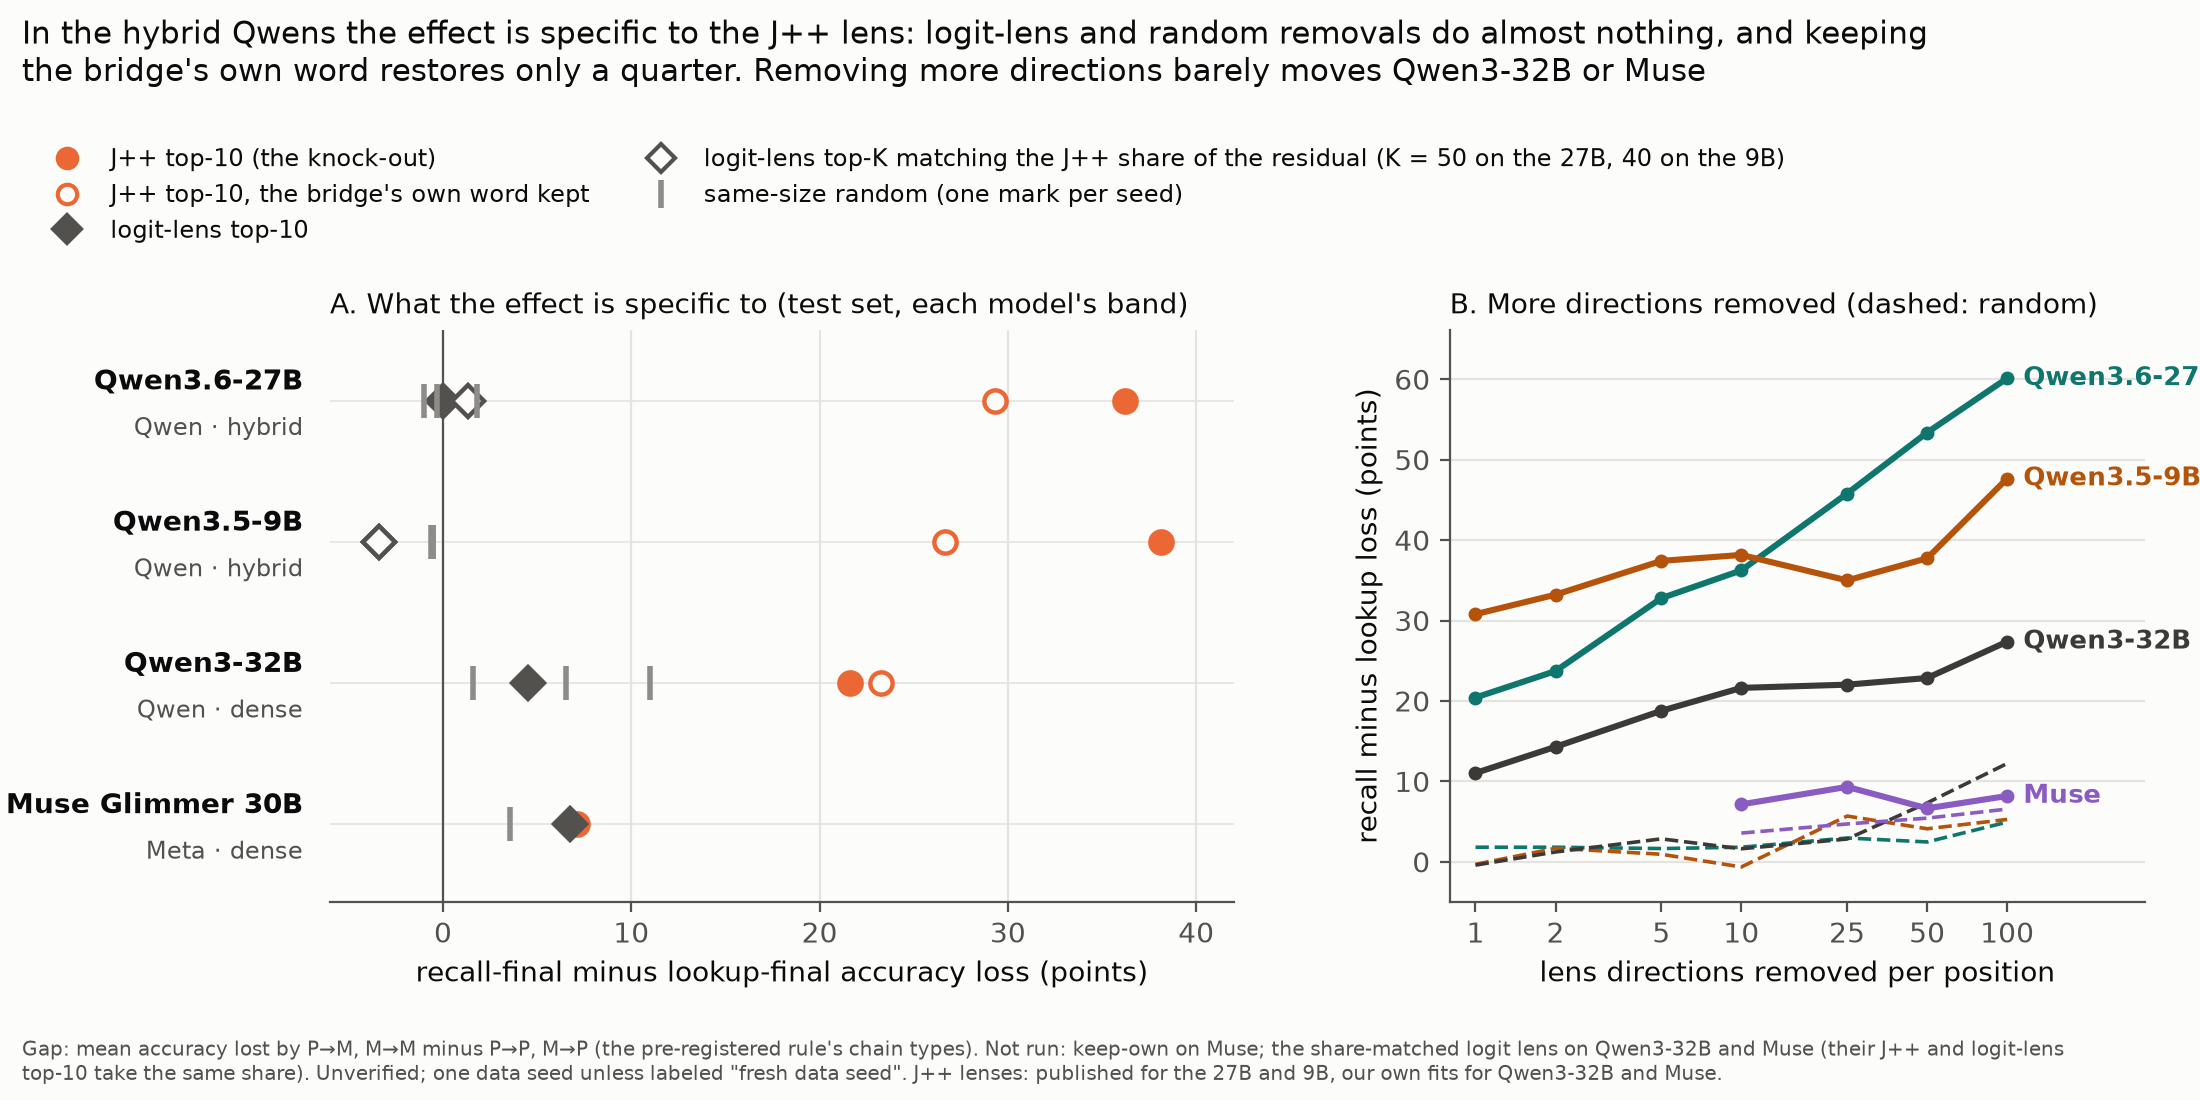
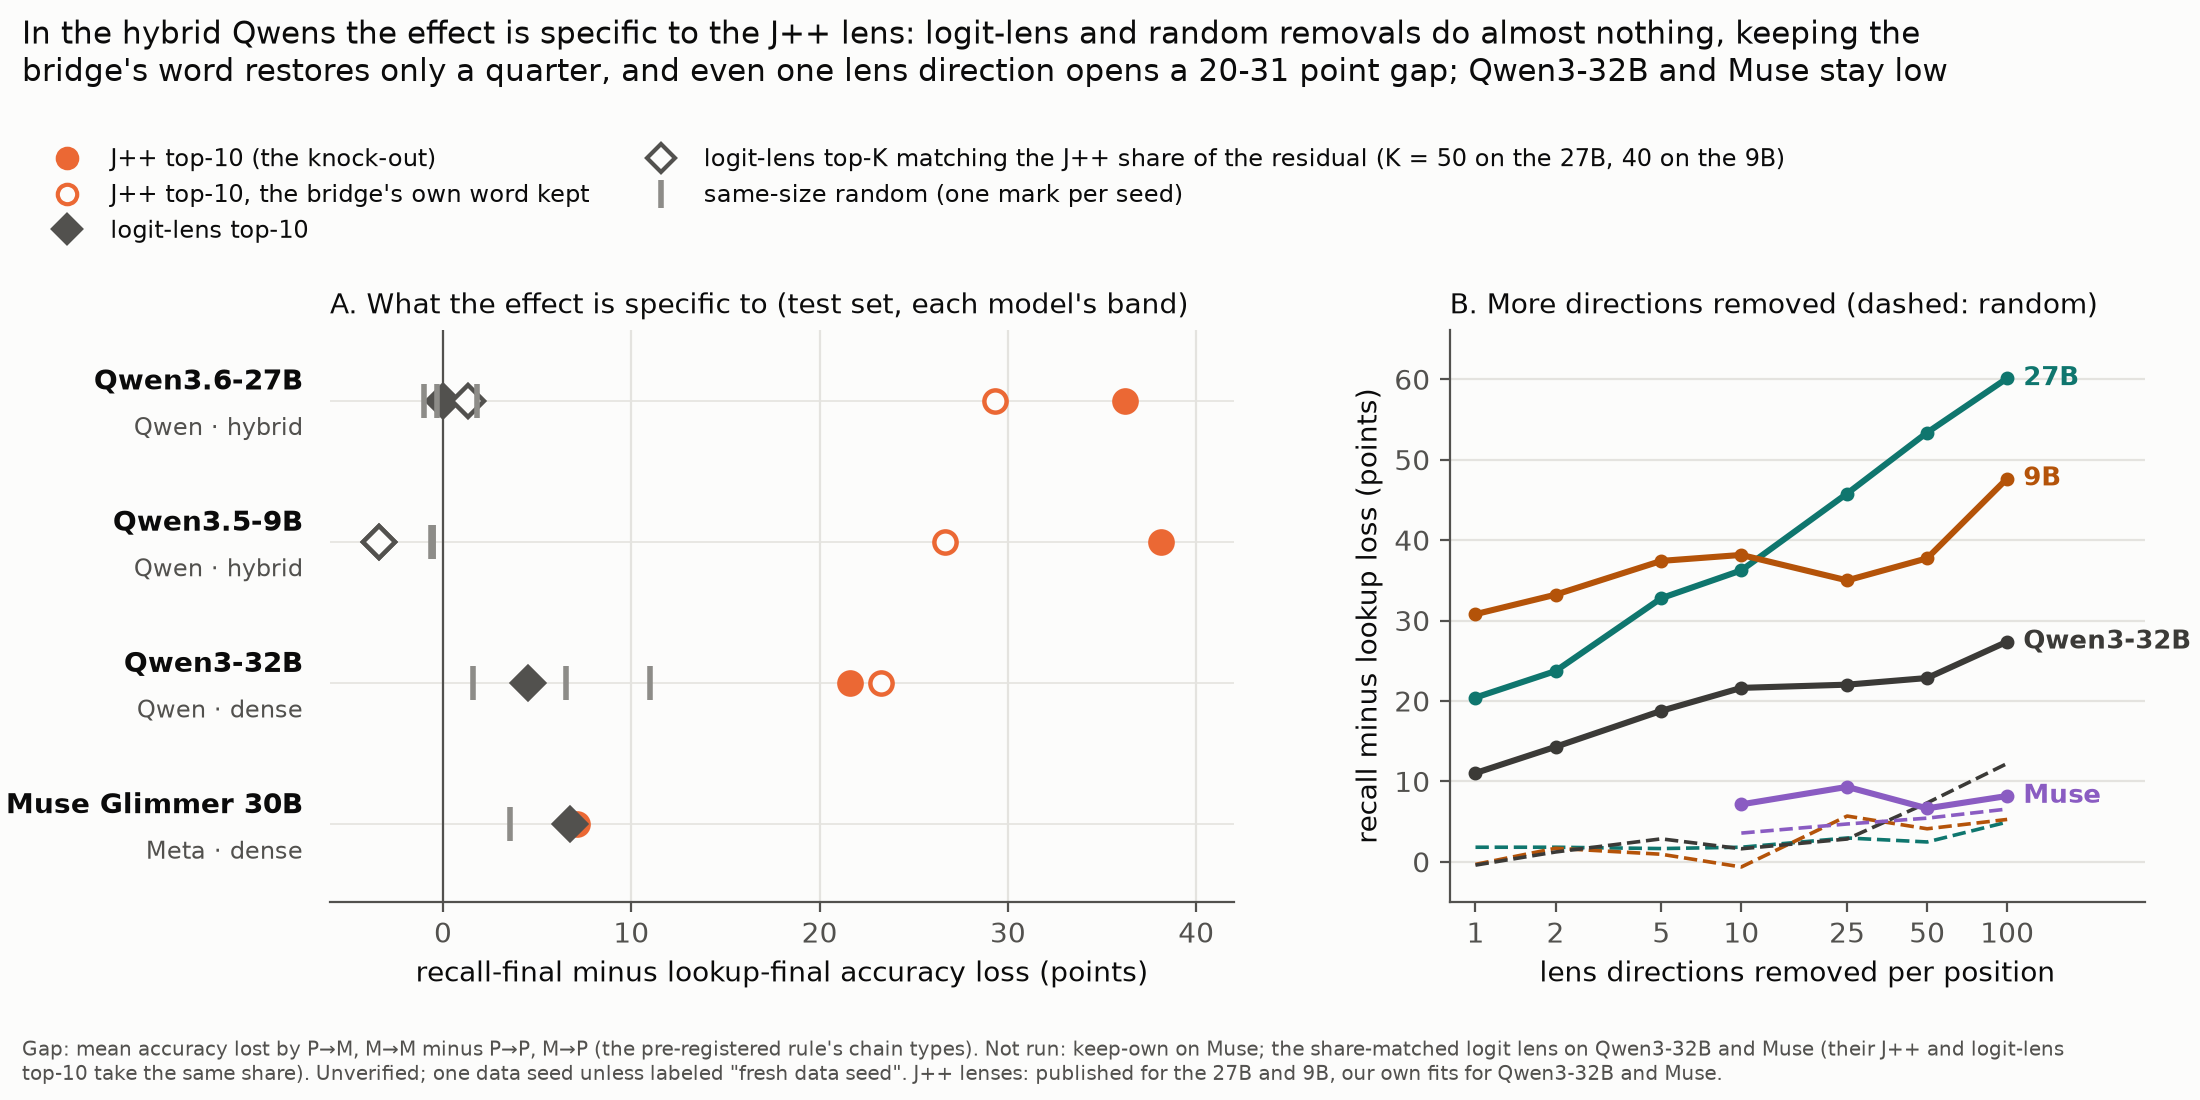
story figures: Fig 3 dose labels and headline with the hybrid doses

Changed region(s): [[0.0, 0.0, 0.8964, 0.0927], [0.9273, 0.4018, 1.0, 0.4636], [0.9273, 0.3091, 1.0, 0.3709]]

diff --git a/scripts/cross_model_story_1022.py b/scripts/cross_model_story_1022.py
@@ -273,8 +273,8 @@ fig.legend([Line2D([], [], color=c, marker=mk, linestyle="", markersize=10 if mk
 ax2 = fig.add_subplot(gs[0, 1])
 style(ax2, "y")
 KS = [1, 2, 5, 10, 25, 50, 100]
-DOSE = [("Qwen3.6-27B", [("full2_ko_v1", "L32-40"), ("full2_dose_v1", "L32-40")], "#0f766e"),
-        ("Qwen3.5-9B", [("qwen35_9b_full2_ko_v1", "L12-16"), ("qwen35_9b_full2_dose_v1", "L12-16")], "#b45309"),
+DOSE = [("27B", [("full2_ko_v1", "L32-40"), ("full2_dose_v1", "L32-40")], "#0f766e"),
+        ("9B", [("qwen35_9b_full2_ko_v1", "L12-16"), ("qwen35_9b_full2_dose_v1", "L12-16")], "#b45309"),
         ("Qwen3-32B", [("qwen3_32b_full_dose_v1", "L44-52")], "#3b3a37"),
         ("Muse", [("muse30_full2_ko_v1", "L36-42"), ("muse30_full2_dose_v1", "L36-42")], "#8a5cc2")]  # fmt: skip
 ymax_dose = 10.0
@@ -303,8 +303,8 @@ ax2.set_ylim(-5, ymax_dose + 6)
 ax2.set_xlabel("lens directions removed per position")
 ax2.set_ylabel("recall minus lookup loss (points)")
 ax2.set_title("B. More directions removed (dashed: random)", loc="left", fontsize=10)
-fig.suptitle("In the hybrid Qwens the effect is specific to the J++ lens: logit-lens and random removals do almost nothing, and keeping\n"
-             "the bridge's own word restores only a quarter. Removing more directions barely moves Qwen3-32B or Muse",
+fig.suptitle("In the hybrid Qwens the effect is specific to the J++ lens: logit-lens and random removals do almost nothing, keeping the\n"
+             "bridge's word restores only a quarter, and even one lens direction opens a 20-31 point gap; Qwen3-32B and Muse stay low",
              x=0.01, y=0.985, ha="left", fontsize=11)  # fmt: skip
 foot(fig, "Gap: mean accuracy lost by P→M, M→M minus P→P, M→P (the pre-registered rule's chain types). Not run: keep-own on Muse; the "
      "share-matched logit lens on Qwen3-32B and Muse (their J++ and logit-lens top-10 take the same share). " + FOOT, 7.3)  # fmt: skip
